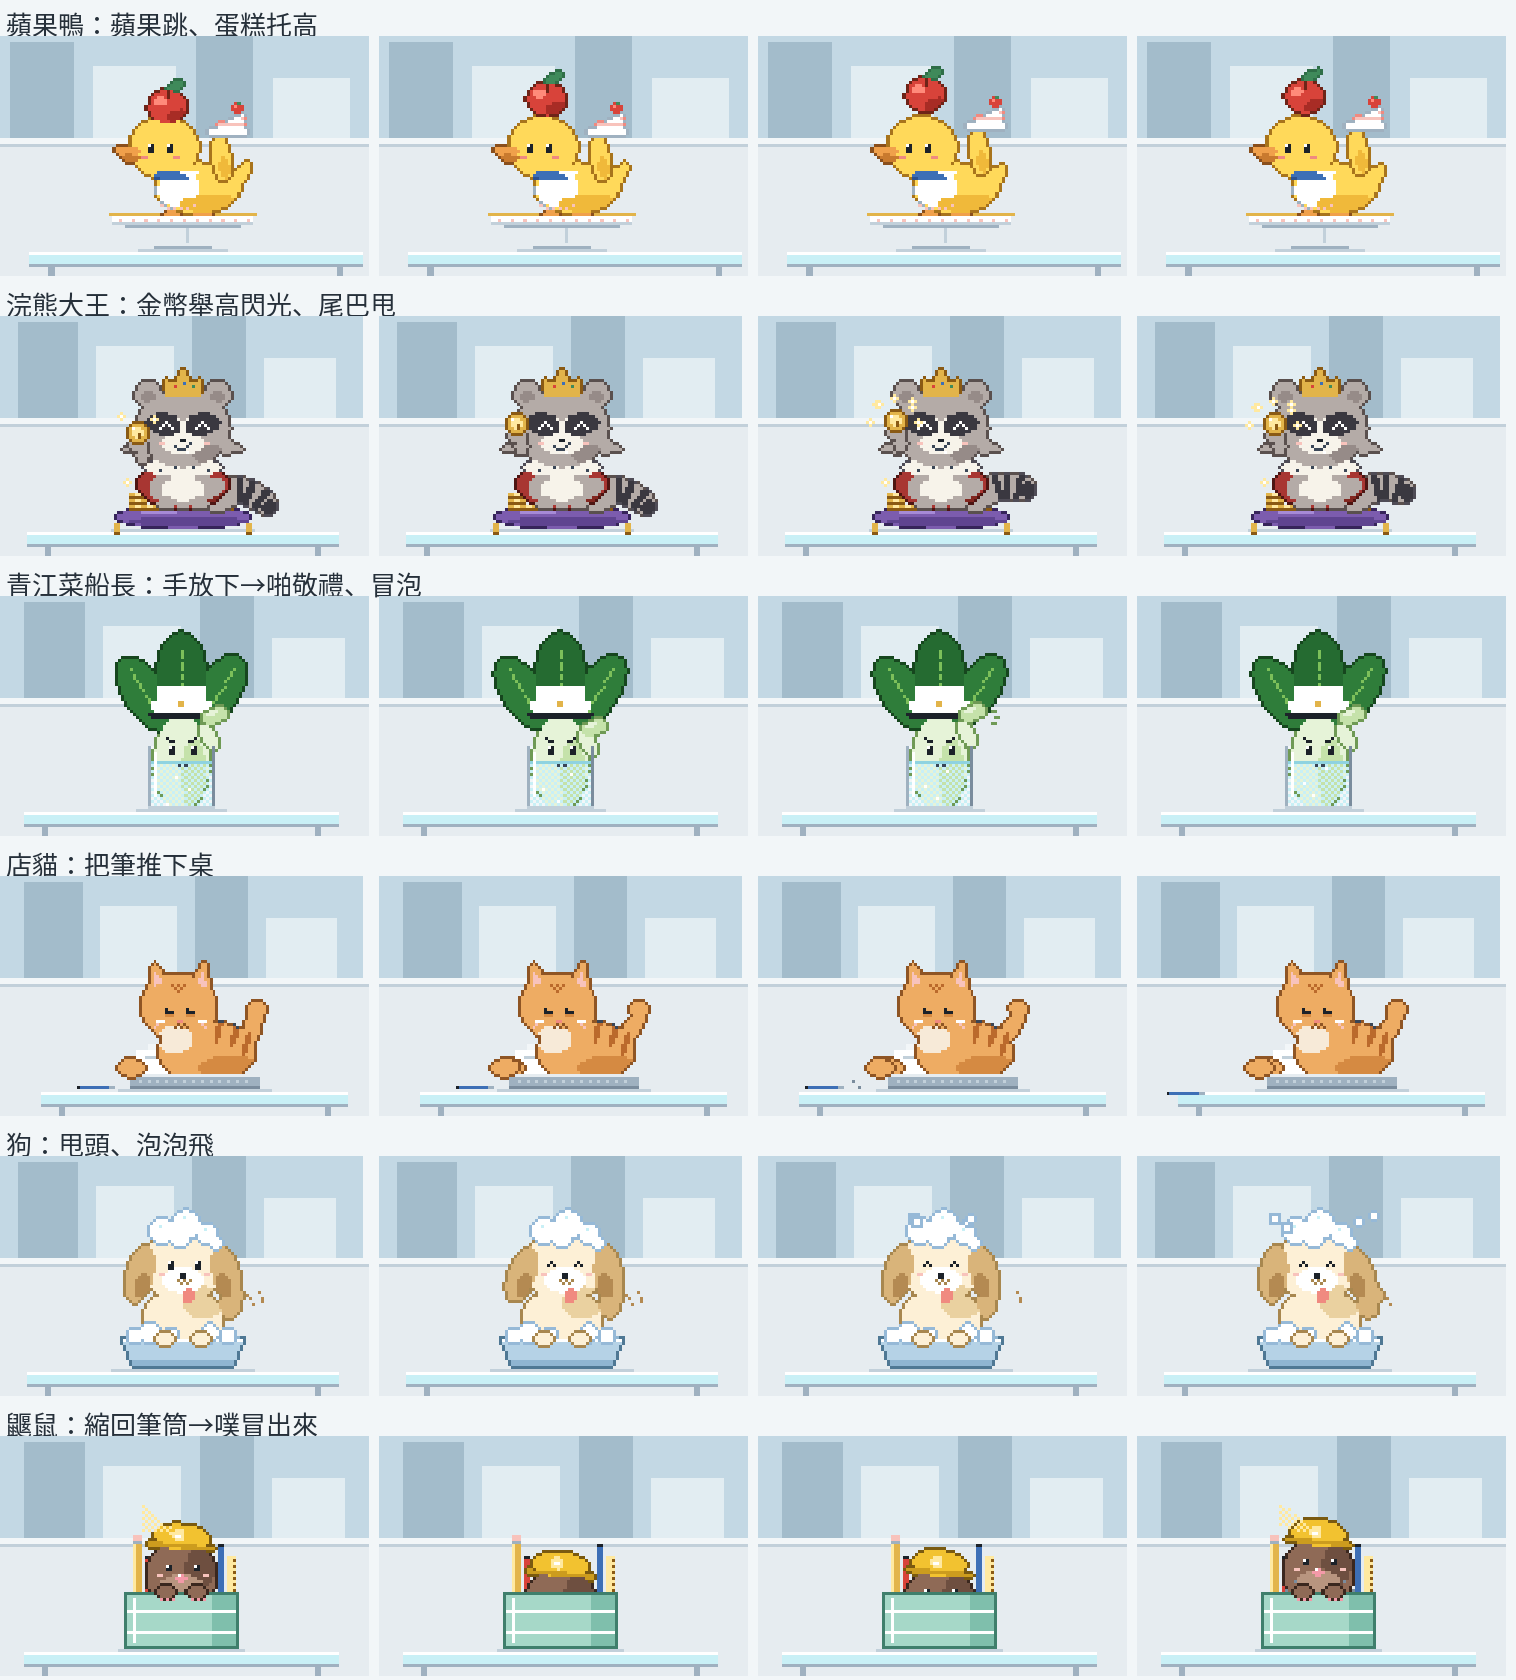
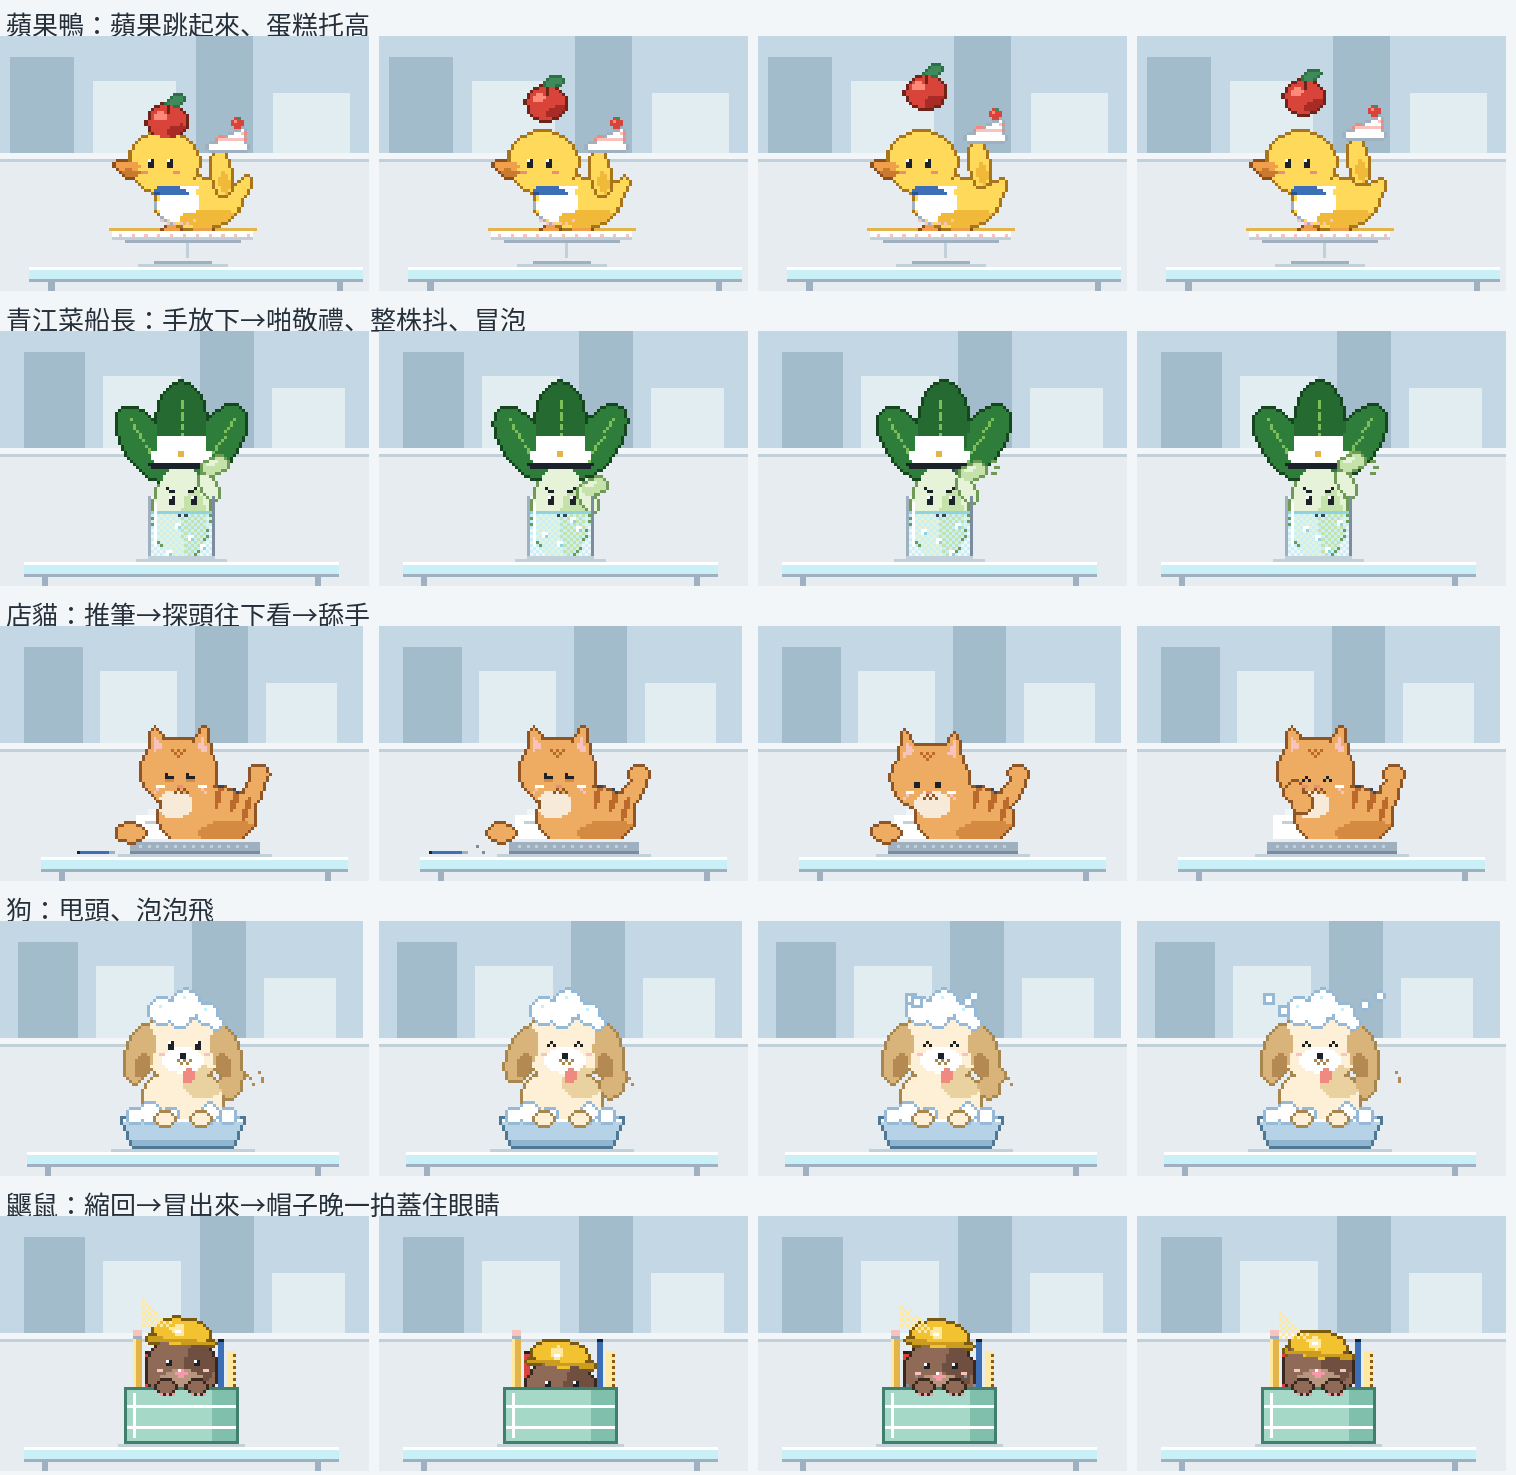
docs: six character animations v2
Claude-Session: https://claude.ai/code/session_01DfELKGAuUeHGLNNJha5AAX

diff --git a/docs/plans/company/cast.html b/docs/plans/company/cast.html
@@ -101,7 +101,7 @@ function scene(X, sil) {
     N(cx - 23, dy - 13, 46, 1, C.au1); N(cx - 22, dy - 12, 44, 2, C.wh); N(cx - 22, dy - 10, 44, 1, C.g3); N(cx - 18, dy - 9, 36, 1, C.g2);   // 盤子＋金邊
     if (!sil) for (let i = cx - 20; i < cx + 21; i += 4) px(i, dy - 11, C.pk2);
     const SA = 1.18, by = dy - 13, { L, E, PG, at } = mk(cx, by, SA);
-    const ah = hump(win(.6, .7)) * 4 / SA, cb = Math.round(hump(win(.75, .6)) * 2), wag = Math.sin(TT * 5) * .18, bl = win(4.2, .18) >= 0;   // 動畫   // 小一號（妹妹：「比別人大一號、黃色很搶眼」）
+    const ah = hump(win(.6, .7)) * 10 / SA, cb = Math.round(hump(win(.75, .6)) * 4), wag = Math.sin(TT * 5) * .18, bl = win(4.2, .18) >= 0;   // 動畫   // 小一號（妹妹：「比別人大一號、黃色很搶眼」）
     E(-3, .3, 2.4, 1, C.o2); E(5, .3, 2.4, 1, C.o2);                                                         // 小腳丫
     E(4, -7, 11, 7, C.y1); E(14, -10, 4, 2, C.y1, -.6 + wag); E(16.5 + wag * 3, -12.5 - wag * 2, 1.8, 1.2, C.y1, -1 + wag);                  // 身體、翹尾巴
     E(-5, -18.5, 9, 8.5, C.y1);                                                                             // 頭
@@ -184,8 +184,8 @@ function scene(X, sil) {
     N(cx - 15, dy - 1, 30, 1, C.g3);
     N(cx - 11, dy - 22, 22, 21, C.g5);                                                                       // 杯子後面那片玻璃
     const by = dy - 3, { L, E, PG, at } = mk(cx, by);
-    const su = win(3.4, .9), drop = su < 0 ? 0 : su < .4 ? ease(su / .4) * 5 : su < .5 ? (1 - (su - .4) / .1) * 5 : su < .7 ? -Math.sin((su - .5) / .2 * Math.PI) * 1 : 0, sway = Math.sin(TT * 2) * .05;   // 動畫
-    E(-9, -27, 5, 10, C.lf, -.55 - sway); E(9, -27.5, 5, 10, C.lf, .55 + sway); E(0, -31, 6, 11, C.lf2);                 // 三片深綠大葉
+    const su = win(3.4, .9), drop = su < 0 ? 0 : su < .4 ? ease(su / .4) * 9 : su < .5 ? (1 - (su - .4) / .1) * 9 : su < .7 ? -Math.sin((su - .5) / .2 * Math.PI) * 1 : 0, sway = Math.sin(TT * 2) * .05, jx = su >= .45 && su < .75 ? Math.sin((su - .45) * Math.PI * 12) * 1.3 * (1 - (su - .45) / .3) : 0;   // 動畫（jx：啪的時候整株抖）
+    E(-9 + jx, -27, 5, 10, C.lf, -.55 - sway); E(9 + jx, -27.5, 5, 10, C.lf, .55 + sway); E(jx, -31, 6, 11, C.lf2);                 // 三片深綠大葉
     E(0, -10, 6.5, 12, C.st); E(3, -7, 3, 9, C.st2, 0, C.st);                                                // 白綠菜梗（臉在這裡）
     E(0, -24, 7.5, 2.6, C.wh); PG([[-6.5, -24], [-5.5, -29], [5.5, -29], [6.5, -24]], C.wh);             // 船長帽：白頂
     PG([[-8.5, -22.3], [8.5, -22.3], [7, -20.5], [-7, -20.5]], C.ink0);                                     // 黑簷
@@ -198,7 +198,7 @@ function scene(X, sil) {
     blit(L, dy);
     const Sa = Lay(); { const [a1, b1] = at(7, -16.5 + drop / S * .6), [a2, b2] = at(8.2, -21.6 + drop / S); lel(Sa, a1, b1, 2.3, 4.6, C.st, -.4); lel(Sa, a2, b2, 4.6, 2.3, C.st2, -.35); lel(Sa, a2 - 1, b2 - 1, 2, 1, C.st, -.35, C.st2); outline(Sa); blit(Sa, dy); }   // 菜梗伸出來的小手，葉子尖碰帽簷敬禮（手是菜梗的淺綠，才不會看成多一片葉子）
     // 杯子：水用棋盤格（看得到泡在裡面的菜梗）、水面、杯緣、左邊一道反光
-    if (!sil) { for (let j = dy - 16; j < dy - 1; j++) for (let i = cx - 10; i < cx + 10; i++) if ((i + j) % 2 === 0) px(i, j, C.cy2); R(cx - 10, dy - 17, 20, 1, C.cy); [[-5, 0], [3, 5], [-2, 9]].forEach(([a, k]) => px(cx + a + Math.round(Math.sin(TT * 3 + k) * .6), dy - 3 - Math.floor((TT * 5 + k) % 13), C.wh)); }   // 泡泡往上冒
+    if (!sil) { for (let j = dy - 16; j < dy - 1; j++) for (let i = cx - 10; i < cx + 10; i++) if ((i + j) % 2 === 0) px(i, j, C.cy2); R(cx - 10, dy - 17, 20, 1, C.cy); [[-5, 0], [3, 5], [-2, 9], [5, 2]].forEach(([a, k]) => { const bx = cx + a + Math.round(Math.sin(TT * 3 + k) * .6), byy = dy - 4 - Math.floor((TT * 5 + k) % 12); R(bx, byy, 2, 2, C.wh); px(bx + 1, byy + 1, C.cy); }); }   // 泡泡往上冒
     N(cx - 11, dy - 22, 1, 21, C.g2); N(cx + 10, dy - 22, 1, 21, C.g1); N(cx - 11, dy - 2, 22, 2, C.g3); N(cx - 9, dy - 20, 1, 15, C.wh);
     if (!sil && su >= .4 && su < .75) { const [hx2, hy2] = at(8.2, -21.6); [[6, -2], [7, 0], [6, 2]].forEach(([a, b]) => R(hx2 + a, hy2 + b, 2, 1, C.st0)); }   // 「啪」敬禮的線
   }
@@ -209,36 +209,42 @@ function scene(X, sil) {
     N(cx - 26, dy - 1, 52, 1, C.g3);
     N(cx - 20, dy - 14, 34, 9, C.wh); N(cx - 16, dy - 16, 30, 2, C.g5); for (let k = 0; k < 3; k++) N(cx - 17 + k * 9, dy - 12, 6, 1, C.g3);   // 盤子裡的文件
     const by = dy - 4, { L, E, PG, at } = mk(cx, by);
-    const pu = win(4.4, 1.6), done = (TT % LOOP) > 6, pp = pu < 0 ? 0 : pu < .3 ? -ease(pu / .3) * 3 : pu < .55 ? -3 : pu < .75 ? -3 + ease((pu - .55) / .2) * 3 : 0, ts = Math.sin(TT * 1.6) * .25;   // 動畫
+    const pu = win(4.2, 2), gone = (TT % LOOP) >= 5.1, pp = pu < 0 ? 0 : pu < .15 ? -ease(pu / .15) * 3 : pu < .3 ? -3 : pu < .4 ? -3 + ease((pu - .3) / .1) * 3 : 0, ts = Math.sin(TT * 1.6) * .25;   // 動畫
+    const lk = pu < .25 ? 0 : pu < .33 ? ease((pu - .25) / .08) : pu < .55 ? 1 : pu < .62 ? 1 - ease((pu - .55) / .07) : 0, lick = pu >= .65 && pu < .97;   // lk：探頭往下看；lick：舔手
+    const hdx = -1.8 * lk, hdy = 1.4 * lk, EH = (a, b, ...r) => E(a + hdx, b + hdy, ...r), PGH = (pts, ...r) => PG(pts.map(([a, b]) => [a + hdx, b + hdy]), ...r), atH = (a, b) => at(a + hdx, b + hdy);
     E(14, -12, 2, 6.5, C.ct, .35 + ts); E(15.5 + ts * 4, -17.5, 2.2, 2, C.ct);                                           // 翹起來的尾巴
-    E(3, -7, 12, 7.5, C.ct); E(-4, -18, 9.5, 8, C.ct);                                                       // 身體、頭
-    PG([[-12, -21], [-10.5, -29.5], [-6, -24]], C.ct); PG([[-1, -24.5], [2.5, -29.5], [4, -21.5]], C.ct);   // 耳朵
-    PG([[-10.6, -23], [-10, -27], [-7.5, -24.3]], C.pk2); PG([[0.5, -24], [2.3, -27.3], [2.8, -22.5]], C.pk2);
+    E(3, -7, 12, 7.5, C.ct); EH(-4, -18, 9.5, 8, C.ct);                                                      // 身體、頭
+    PGH([[-12, -21], [-10.5, -29.5], [-6, -24]], C.ct); PGH([[-1, -24.5], [2.5, -29.5], [4, -21.5]], C.ct);   // 耳朵
+    PGH([[-10.6, -23], [-10, -27], [-7.5, -24.3]], C.pk2); PGH([[0.5, -24], [2.3, -27.3], [2.8, -22.5]], C.pk2);
     E(-5, -10, 4.5, 3.5, C.cw, 0, C.ct);                                                                     // 白胸口
     E(9, -3, 8, 3, C.ct2, 0, C.ct);
     [[6, -12], [10, -11], [13, -9]].forEach(([a, b]) => E(a, b, .8, 3, C.cts, .25, C.ct));                   // 背上的虎斑
-    E(-16, -3, 3.4, 2, C.ct);                                                                                // 伸出去推筆的手
     outline(L);
-    const [mx, my] = at(-4, -24); F(L, mx - 3, my, [[0, 0], [1, 1], [2, 0], [3, 1], [4, 0], [2, 2]], C.cts);   // 額頭的 M 字紋
-    const [ex, ey] = at(-4, -17); [[-5], [2]].forEach(([a]) => F(L, ex + a, ey, [[0, 0], [1, 0], [2, 0], [0, 1], [1, 1], [2, 1], [0, -1]], C.ink0));   // 愛睏的半月眼＋睫毛
-    [[-5], [2]].forEach(([a]) => F(L, ex + a, ey + 1, [[0, 0], [1, 0], [2, 0]], C.ct2));
+    const [mx, my] = atH(-4, -24); F(L, mx - 3, my, [[0, 0], [1, 1], [2, 0], [3, 1], [4, 0], [2, 2]], C.cts);   // 額頭的 M 字紋
+    const [ex, ey] = atH(-4, -17);
+    if (lk > .5) [[-5], [2]].forEach(([a]) => F(L, ex + a, ey, [[0, 0], [1, 0], [0, 1], [1, 1]], C.ink0));                 // 探頭往下看：眼睛睜圓
+    else if (lick) [[-5], [2]].forEach(([a]) => F(L, ex + a, ey + 1, [[0, 0], [1, -1], [2, 0]], C.ink0));               // 舔手：眼睛閉成 ^
+    else { [[-5], [2]].forEach(([a]) => F(L, ex + a, ey, [[0, 0], [1, 0], [2, 0], [0, 1], [1, 1], [2, 1], [0, -1]], C.ink0));   // 愛睏的半月眼＋睫毛
+      [[-5], [2]].forEach(([a]) => F(L, ex + a, ey + 1, [[0, 0], [1, 0], [2, 0]], C.ct2)); }
     F(L, ex - 1, ey + 3, [[0, 0], [1, 0]], C.pink); F(L, ex - 2, ey + 5, [[0, 0], [1, -1], [2, 0], [3, -1], [4, 0]], C.ct0);   // 粉紅鼻子、ω 嘴
     F(L, ex - 8, ey + 3, [[0, 0], [1, 0], [2, 0]], C.wh); F(L, ex + 6, ey + 3, [[0, 0], [1, 0], [2, 0]], C.wh);   // 鬍鬚
     F(L, ex - 9, ey + 5, [[0, 0], [1, -1]], C.pk2); F(L, ex + 7, ey + 5, [[0, -1], [1, 0]], C.pk2);
     blit(L, dy - 5);
     // 文件盤前面那片
     N(cx - 22, dy - 6, 44, 5, C.g2); N(cx - 22, dy - 6, 44, 1, C.g4); N(cx - 22, dy - 2, 44, 1, C.g1); for (let i = cx - 19; i < cx + 20; i += 3) N(i, dy - 4, 1, 1, C.g3);
-    const P2 = Lay(); lel(P2, cx - 16 * S + pp, by - 3 * S, 3.4 * S, 2 * S, C.ct); outline(P2); blit(P2, dy);       // 手疊在盤子邊上
-    { let pxo = 0, pyo = 0; if (pu >= .2) { const a = Math.min(1, (pu - .2) / .25); pxo = -Math.round(a * 15); if (pu > .45) { const f = (pu - .45) / .55; pxo -= Math.round(f * 4); pyo = Math.round(f * f * 40); } }   // 筆：被推、滑出桌邊、掉下去
-      if (!done || pu >= 0) { N(cx - 39 + pxo, dy - 2 + pyo, 11, 1, C.b1); N(cx - 40 + pxo, dy - 2 + pyo, 1, 1, C.ink0); N(cx - 29 + pxo, dy - 2 + pyo, 2, 1, C.g2); }
-      if (!sil && pu >= .2 && pu < .5) { px(cx - 28 + pxo + 4, dy - 4, C.g1); px(cx - 28 + pxo + 6, dy - 2, C.g1); } }
+    const P2 = Lay(); if (lick) { const [mx2, my2] = at(-10, -13.5); lel(P2, mx2, my2, 2.4 * S, 2 * S, C.ct, -.5); lel(P2, mx2 + 3, my2 + 4, 2.2 * S, 2.6 * S, C.ct); outline(P2); blit(P2, dy);   // 舔手：手舉到嘴邊
+      if (!sil && Math.floor(TT * 6) % 2) { px(mx2 + 3, my2 - 2, C.pink); px(mx2 + 4, my2 - 2, C.pink); } }
+    else { lel(P2, cx - 16 * S + pp, by - 3 * S, 3.4 * S, 2 * S, C.ct); outline(P2); blit(P2, dy); }       // 手疊在盤子邊上
+    { let pxo = 0, pyo = 0; if (pu >= .1) { const a = Math.min(1, (pu - .1) / .15); pxo = -Math.round(a * 15); if (pu > .25) { const f = Math.min(1, (pu - .25) / .2); pxo -= Math.round(f * 4); pyo = Math.round(f * f * 40); } }   // 筆：被推、滑出桌邊、掉下去
+      if (!gone) { N(cx - 39 + pxo, dy - 2 + pyo, 11, 1, C.b1); N(cx - 40 + pxo, dy - 2 + pyo, 1, 1, C.ink0); N(cx - 29 + pxo, dy - 2 + pyo, 2, 1, C.g2); }
+      if (!sil && pu >= .1 && pu < .3) { px(cx - 28 + pxo + 4, dy - 4, C.g1); px(cx - 28 + pxo + 6, dy - 2, C.g1); } }
   }
   // ---- 坐洗部的狗：坐在洗頭盆裡，頭上頂泡泡，舌頭收不回去，尾巴搖搖 ----
   { const cx = 188, dy = 202;
     N(cx - 24, dy - 1, 48, 1, C.g3);
     el(cx, dy - 11, 21, 3, C.tub0); el(cx, dy - 11, 20, 2.2, C.tub2);                                        // 盆子後緣
     const by = dy - 7, { L, E, PG, at } = mk(cx, by);
-    const du = win(5.8, .9), sx = du < 0 ? 0 : Math.round(Math.sin(du * Math.PI * 6) * 1.8 * (1 - du)), w = Math.sin(TT * 9) * .7, EH = (a, b, ...r) => E(a + sx / S, b, ...r);   // 動畫
+    const du = win(6.3, .8), sx = du < 0 ? 0 : Math.round(Math.sin(du * Math.PI * 6) * 1.8 * (1 - du)), w = Math.sin(TT * 9) * .7, EH = (a, b, ...r) => E(a + sx / S, b, ...r);   // 動畫
     E(11.5 + w, -11, 2.6, 2.6, C.ear); E(13.2 + w * 1.4, -13.6, 1.8, 1.8, C.ear);                                          // 一小團捲捲的尾巴
     E(0, -8, 10, 7, C.cr); EH(0, -21, 10, 8.5, C.cr);                                                        // 身體、頭
     EH(-10.5, -19, 3.4, 7, C.ear, .25 + sx * .12); EH(10.5, -19, 3.4, 7, C.ear, -.25 + sx * .12);          // 垂耳（甩頭的時候跟著甩）
@@ -266,14 +272,15 @@ function scene(X, sil) {
     N(cx - 16, dy - 37, 3, 18, C.au1); N(cx - 16, dy - 37, 1, 18, C.au2); N(cx - 16, dy - 39, 3, 2, C.pk2); N(cx - 16, dy - 37, 3, 1, C.g2);   // 鉛筆（插在左邊，看得到）
     N(cx - 12, dy - 31, 2, 12, C.red); N(cx - 12, dy - 32, 2, 1, C.ink0);   // 紅筆
     N(cx + 12, dy - 35, 2, 16, C.b1); N(cx + 12, dy - 36, 2, 1, C.ink0); N(cx + 15, dy - 32, 3, 13, C.au2); for (let j = dy - 31; j < dy - 19; j += 2) N(cx + 17, j, 1, 1, C.au0);   // 藍筆、尺（右邊）
-    const mu = win(7, 1), dip = mu < 0 ? 0 : mu < .3 ? ease(mu / .3) * 10 : mu < .45 ? 10 : mu < .7 ? 10 - ease((mu - .45) / .25) * 12 : mu < .85 ? -2 + ease((mu - .7) / .15) * 2 : 0, lampOff = (Math.floor(TT * 8) % 23 === 5) || dip > 6;   // 動畫
+    const mu = win(7.2, .8), dip = mu < 0 ? 0 : mu < .25 ? ease(mu / .25) * 10 : mu < .35 ? 10 : mu < .55 ? 10 - ease((mu - .35) / .2) * 12 : mu < .65 ? -2 + ease((mu - .55) / .1) * 2 : 0,
+      hatY = mu < .45 ? 0 : mu < .6 ? -ease((mu - .45) / .15) * 5 : mu < .72 ? -5 + ease((mu - .6) / .12) * 8.2 : mu < .95 ? 3.2 : 3.2 * (1 - ease((mu - .95) / .05)),   /* 帽子晚一拍：先飛高、再掉下來蓋住眼睛 */ lampOff = (Math.floor(TT * 8) % 23 === 5) || dip > 6;   // 動畫
     const by = dy - 24 + dip, { L, E, PG, at } = mk(cx, by);
     E(0, -1, 8.5, 8.5, C.br); E(0, 2, 5.5, 3.5, C.brl, 0, C.br); E(4.5, -3, 3.5, 5.5, C.br2, 0, C.br);
-    E(0, -10.5, 6.6, 3.2, C.hat, .1); PG([[-8.5, -9.6], [8.5, -8.1], [8.5, -7], [-8.5, -8.5]], C.hat2);   // 小一號的工地帽
-    E(-.5, -11, 1.6, 1.6, C.au2);
+    E(0, -10.5 + hatY, 6.6, 3.2, C.hat, .1); PG([[-8.5, -9.6 + hatY], [8.5, -8.1 + hatY], [8.5, -7 + hatY], [-8.5, -8.5 + hatY]], C.hat2);   // 小一號的工地帽
+    E(-.5, -11 + hatY, 1.6, 1.6, C.au2);
     outline(L);
-    const [lx, ly] = at(-.5, -11); F(L, lx, ly, [[0, 0], [-1, 0]], C.wh);
-    const [ex, ey] = at(0, -4); bean(L, ex - 5, ey, 2); bean(L, ex + 4, ey, 2);                              // 露出來的豆豆眼
+    const [lx, ly] = at(-.5, -11 + hatY); F(L, lx, ly, [[0, 0], [-1, 0]], C.wh);
+    const [ex, ey] = at(0, -4); if (hatY < 2) { bean(L, ex - 5, ey, 2); bean(L, ex + 4, ey, 2); }                              // 露出來的豆豆眼
     F(L, ex - 2, ey + 3, [[1, 0], [2, 0], [0, 1], [1, 1], [2, 1], [3, 1], [1, 2], [2, 2]], C.mpk); F(L, ex - 1, ey + 3, [[0, 0]], C.wh);
     F(L, ex - 8, ey + 3, [[0, 0], [1, 0]], C.pk2); F(L, ex + 7, ey + 3, [[0, 0], [1, 0]], C.pk2);
     blit(L, dy - 19);
@@ -283,7 +290,7 @@ function scene(X, sil) {
     N(cx - 18, dy - 14, 36, 1, C.wh); N(cx - 18, dy - 7, 36, 1, C.wh); N(cx - 16, dy - 18, 1, 15, C.wh);
     if (dip < 5) { const Cl = Lay(); [[-5], [5]].forEach(([a]) => lel(Cl, cx + a, dy - 20, 3, 2, C.br)); outline(Cl);
     [[-5], [5]].forEach(([a]) => { [-2, 0, 2].forEach(d => lp(Cl, cx + a + d, dy - 18, C.mpk)); }); blit(Cl, dy); }
-    if (!sil && mu > .55 && mu < .8) [[-8, -24], [8, -24], [-11, -21], [11, -21]].forEach(([a, b]) => px(cx + a, dy + b, C.g1));   // 冒出來的「噗」
+    if (!sil && mu > .45 && mu < .7) [[-8, -24], [8, -24], [-11, -21], [11, -21]].forEach(([a, b]) => px(cx + a, dy + b, C.g1));   // 冒出來的「噗」
   }
 }
 window.renderAt = t => { TT = t; scene(document.getElementById('b').getContext('2d'), false); };

diff --git a/docs/plans/company/README.md b/docs/plans/company/README.md
@@ -59,3 +59,4 @@
   - 使用者覺得手跟尾巴怪 → 試了三種（`raccoon-hand-tail.png`；`cast.html?rv=0～3`）：一 小手放肚子＋尾巴繞前面、二 揮手嗨＋S 形尾巴豎背後、三 舉金幣炫耀＋尾巴攤在金幣上。使用者選三，但**不要咬金幣**。**浣熊大王定稿**：另一手高高舉金幣（閃光）、斜斜壞笑露門牙、尾巴平攤在金幣堆上，`cast.html` 預設 `rv=3`。
   - 使用者：「王冠戴正。」小皇冠改成戴在頭頂正中間、左右對稱，三顆寶石（紅、藍、綠）也對稱。
 - **另外六隻的小動畫**（`cast.html` 加了時間軸 `renderAt(t)`、`?anim` 會自己動；拍 GIF 用 `cast-gif.js` → `cast-anim.gif`、關鍵畫面 `cast-anim-keys.png`）：8 秒一輪、一秒 12 張，六隻錯開。蘋果鴨 0.6 秒頭上的蘋果跳一下、翅膀把蛋糕托高，尾巴一直擺、4.2 秒眨眼；浣熊大王 2 秒把金幣舉高閃光四射、尾巴尖甩一下，閃光一閃一閃；青江菜船長 3.4 秒手放下再「啪」敬回帽簷，杯子裡泡泡一直往上冒、葉子微擺；店貓 4.4 秒伸手把筆推出桌邊、筆掉下去（下一輪新的筆），尾巴慢慢擺；狗 5.8 秒甩頭（眼睛瞇成 ^、耳朵跟著甩、泡泡飛出去），尾巴一直搖；鼴鼠 7 秒縮回筆筒、再「噗」冒出來，頭燈偶爾閃一下。0 秒是靜態定稿圖。
+  - 妹妹第一輪：狗和鼴鼠最成功（鼴鼠像打地鼠）；蘋果鴨、船長動太小看不出；貓看不到筆掉下去。改：蘋果跳 10 顆高、看得到跟頭分開的縫，蛋糕托高 4 顆；船長的手放到 9 顆低、「啪」的時候整株葉子抖、泡泡變 2×2；店貓 4.2～6.2 秒：推筆 → 筆滑出去掉下去 → 探頭往下看（頭往左下、眼睛睜圓）→ 若無其事舔手（手舉到嘴邊、閉眼、粉紅舌頭一閃一閃）；狗挪到 6.3 秒、鼴鼠 7.2 秒，錯開；鼴鼠冒出來時帽子晚一拍：先飛高、再掉下來蓋住眼睛。浣熊大王妹妹以為是舊版，其實是使用者選定的那版，不改。

diff --git a/changelog/2026-11.md b/changelog/2026-11.md
@@ -1355,3 +1355,8 @@
 ## 2026-11-25 00:50（台灣）　開公司：另外六隻也會動了
 - 8 秒一輪，六隻輪流做一個招牌動作：蘋果鴨頭上的蘋果跳一下、浣熊大王把金幣舉高閃光、青江菜船長「啪」地重新敬禮、店貓把筆推下桌、狗甩頭把泡泡甩飛、鼴鼠縮回筆筒再冒出來。
 - 平常也有小動作：尾巴擺、杯子冒泡、頭燈閃。動圖 `docs/plans/company/cast-anim.gif`，等妹妹看。只是企劃，網站沒有變。
+
+## 2026-11-25 01:10（台灣）　開公司：六隻的小動畫照妹妹的意見修
+- 蘋果鴨的蘋果跳得更高，看得到跟頭分開；青江菜船長「啪」地敬禮時整株葉子抖一下，杯子裡的泡泡大一點。
+- 店貓把筆推下去後，會探頭往下看，再若無其事地舔手。
+- 鼴鼠冒出來時帽子晚一拍掉下來，剛好蓋住眼睛。只是企劃，網站沒有變。
